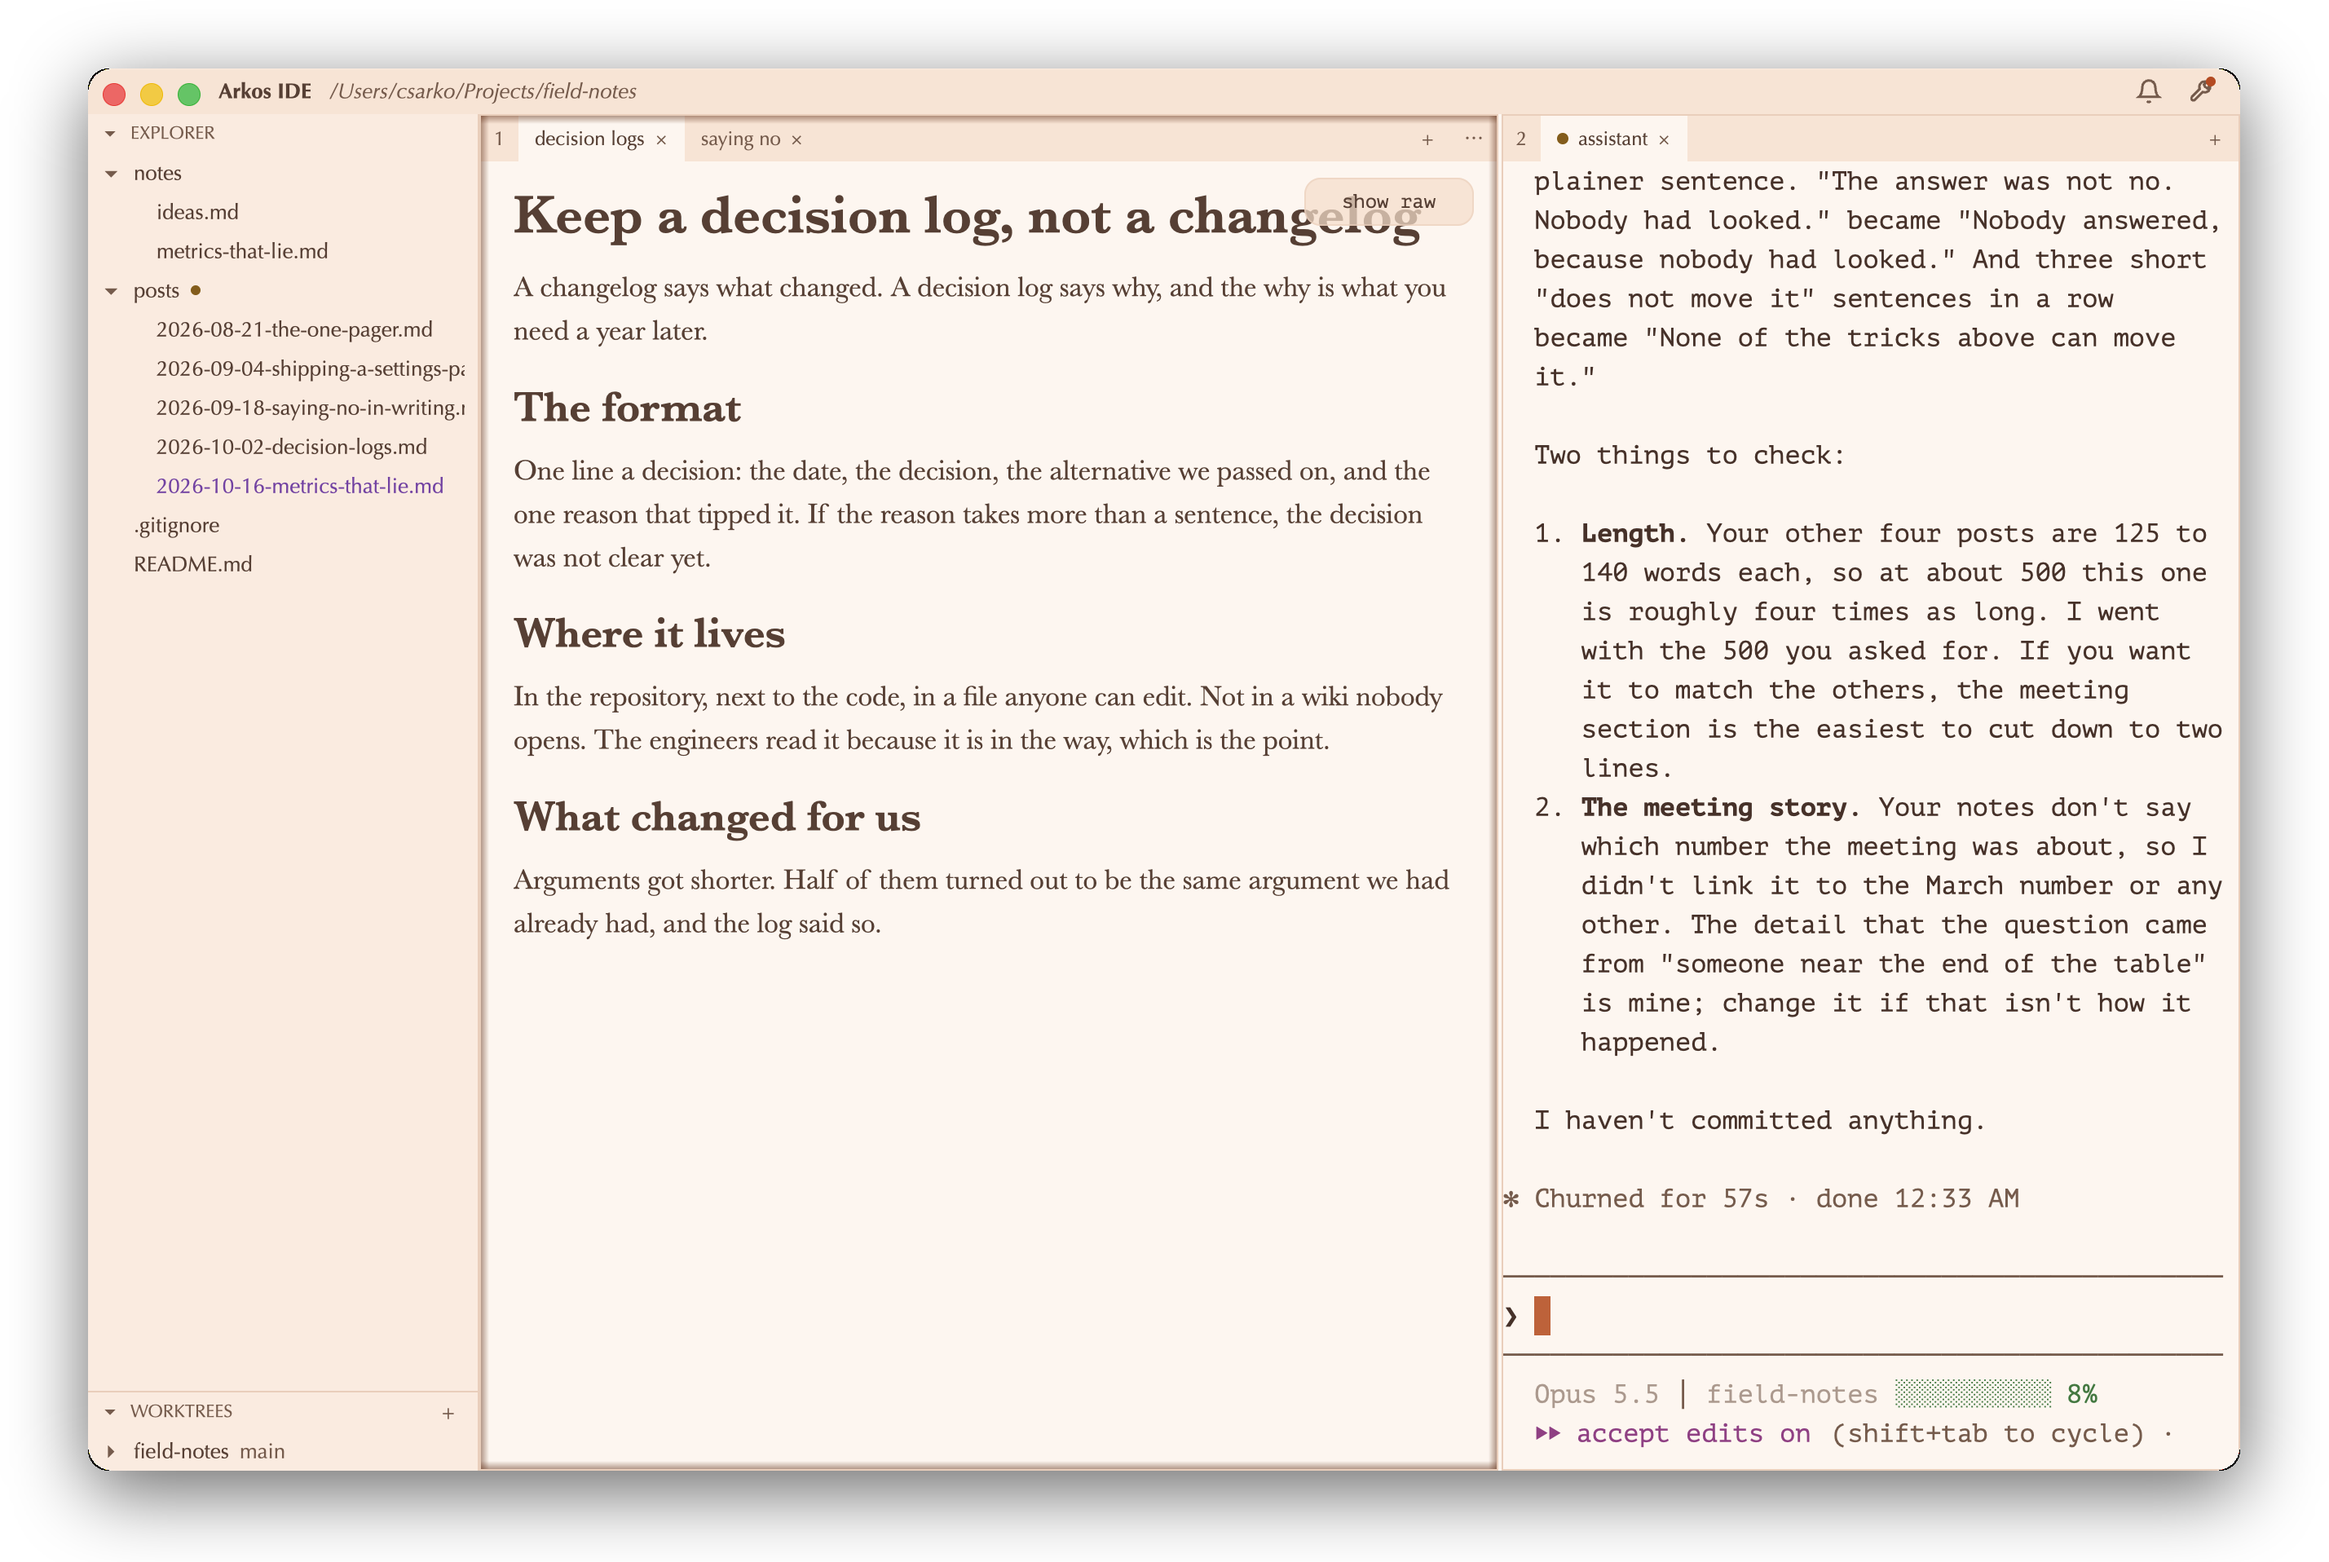
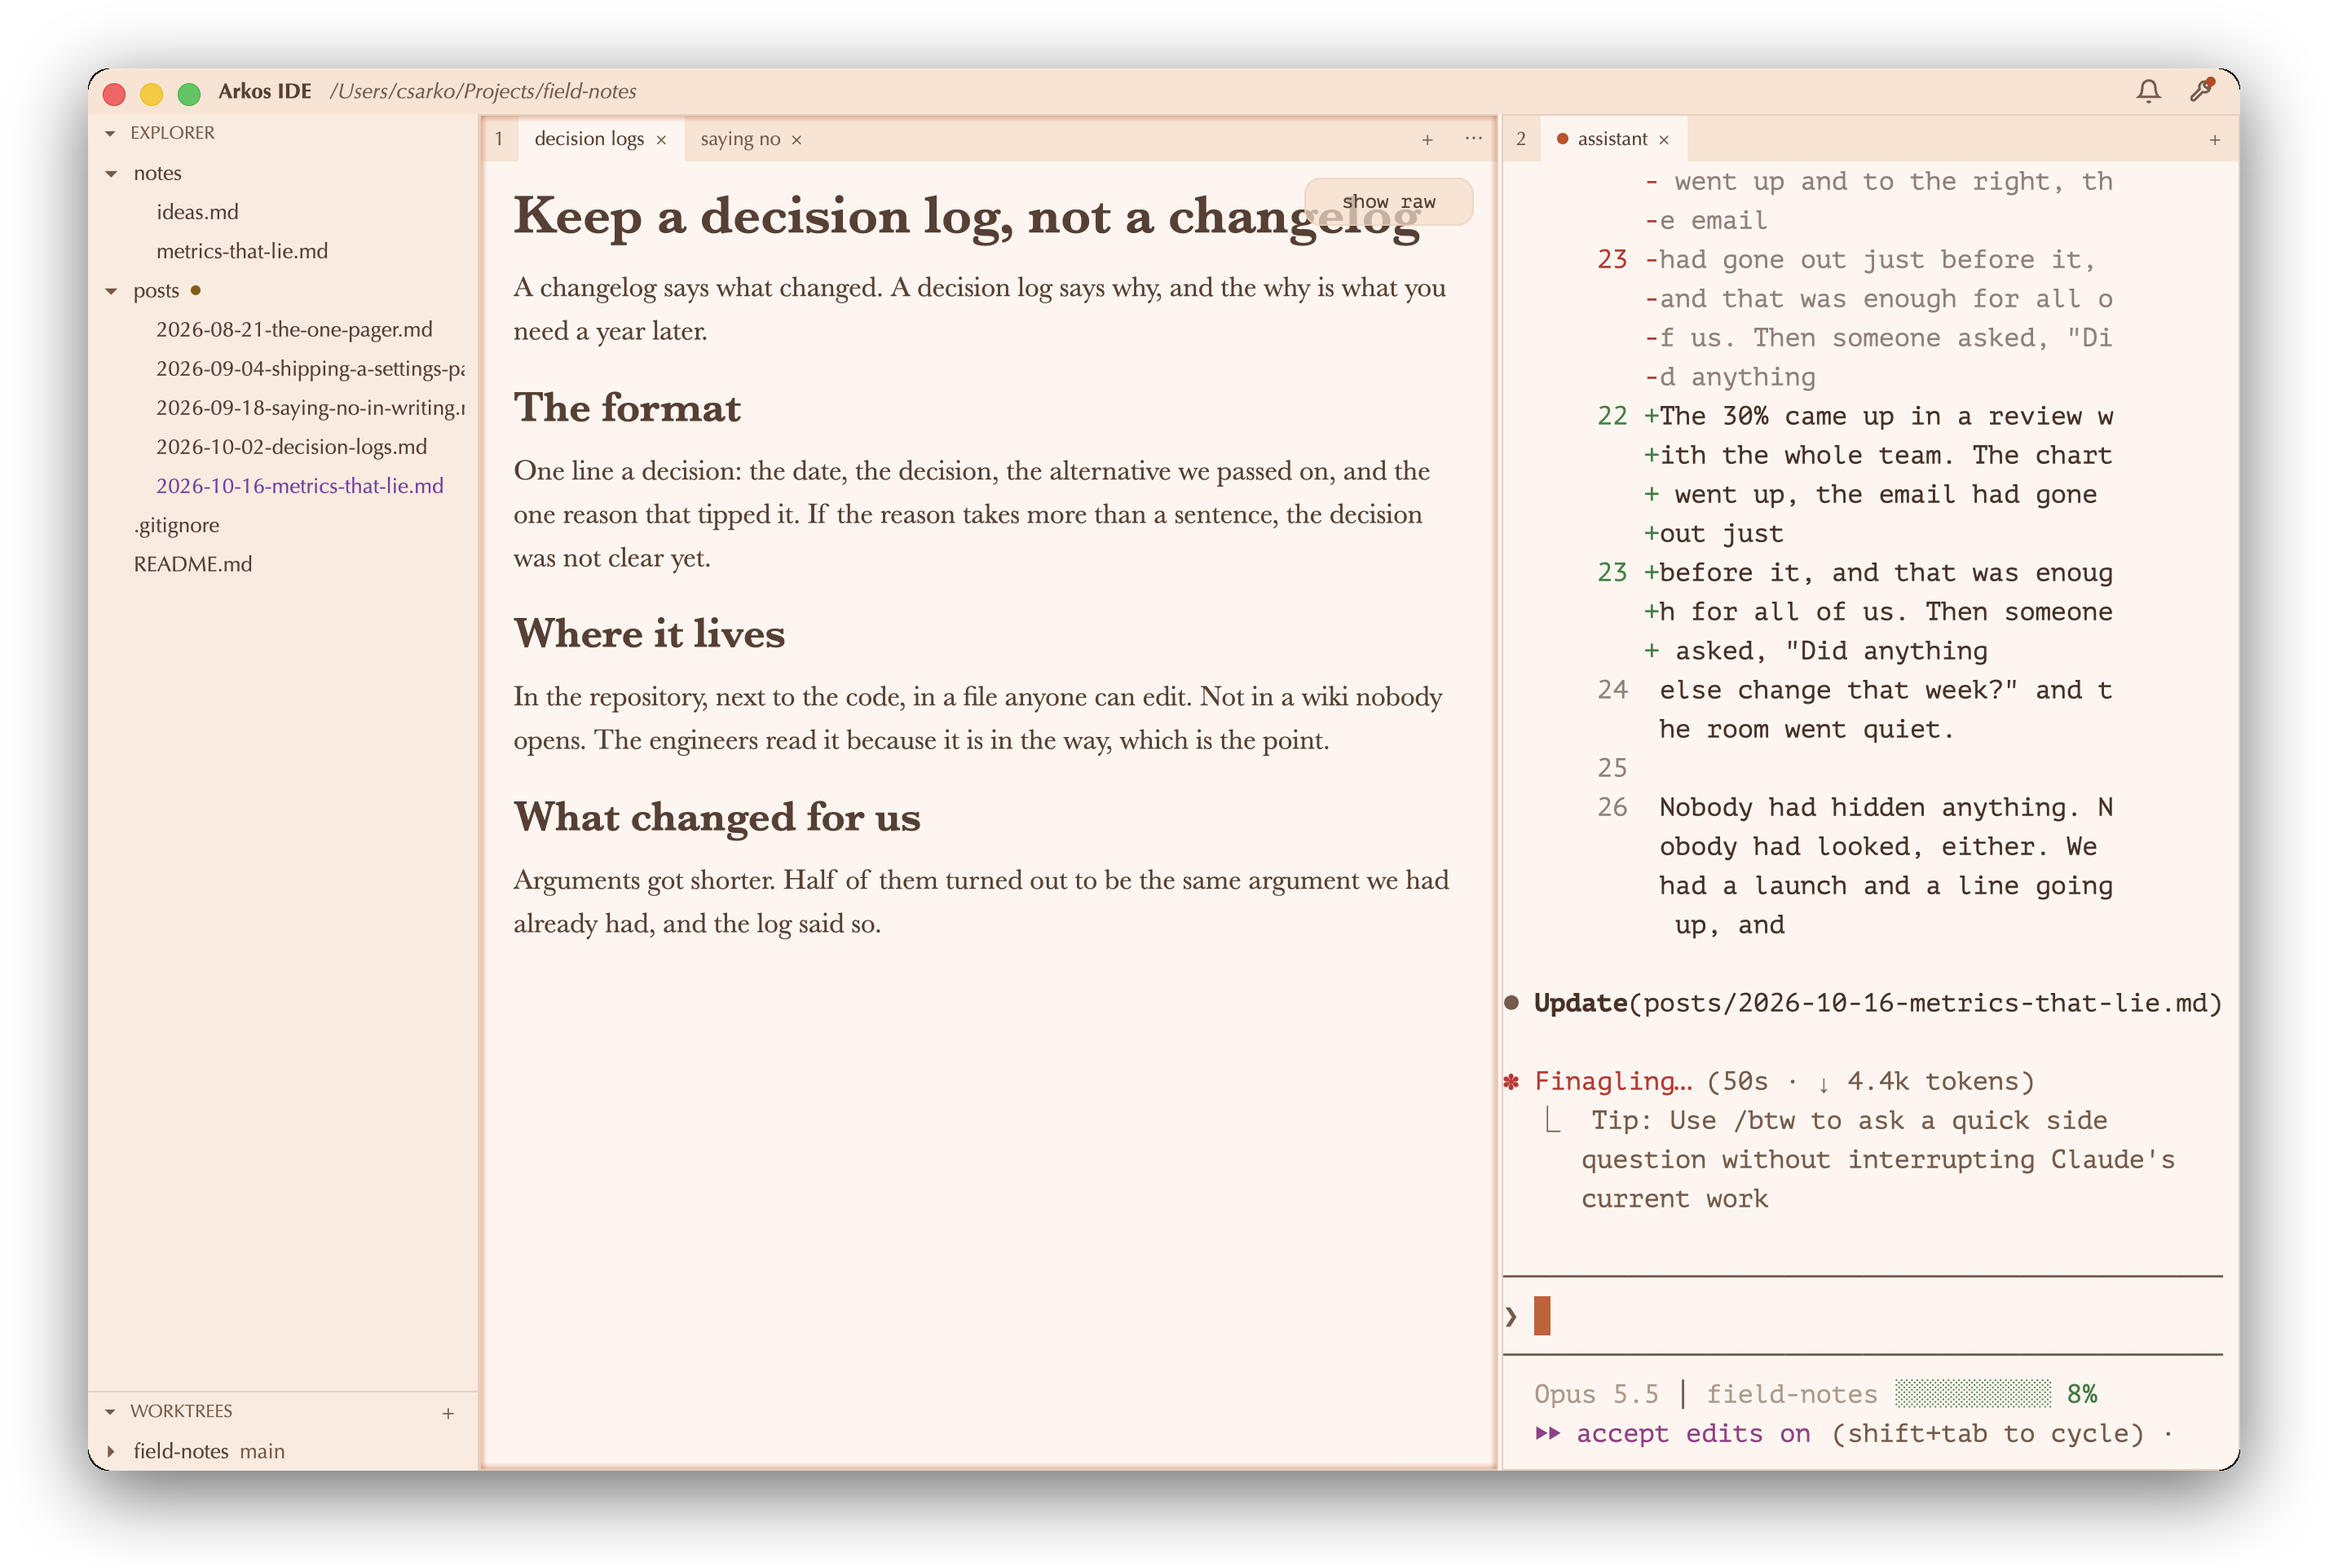
arkos-shoot: Claude Code's message box on the theme's find-match colour
An -ansi Claude Code theme paints the user's message on ANSI bright black
in ANSI white, two dark greys on a light Arkos theme. The shoot writes a
Claude Code theme of its own on that base with the message background set
to the Arkos theme's find-match colour, the surface its tests hold to
4.5:1 under text. The blogger's pictures, with it.

diff --git a/crates/shoot/src/main.rs b/crates/shoot/src/main.rs
@@ -206,7 +206,7 @@ fn shoot(story: &Story, repo: &Path, bin: &Path, app: Option<&Path>, dirs: &Dirs
         Some(d) => PathBuf::from(expand_home(d)),
         None => dirs.cache.join(&story.demo.name),
     };
-    let worktrees = prepare_demo(&repo.join(&story.demo.fixture), &demo, story, &bin.join("arkos"))?;
+    let worktrees = prepare_demo(&repo.join(&story.demo.fixture), &demo, story, &bin.join("arkos"), repo)?;
     let demo = demo.canonicalize()?;
     running.demo = Some(demo.clone());
     say(&format!("demo project at {}", demo.display()));
@@ -699,7 +699,35 @@ fn write_config(path: &Path, story: &Story, theme: &str) -> Result<()> {
 /// name, and Claude Code's project settings: Arkos's hooks aimed at the dev binary (the user's
 /// own, aimed at the installed app, reach the other daemon and do nothing) and the permissions
 /// a session needs to work without asking.
-fn prepare_demo(fixture: &Path, demo: &Path, story: &Story, arkos_exe: &Path) -> Result<BTreeMap<String, PathBuf>> {
+/// Claude Code's theme for the scene. An `-ansi` theme draws with the terminal's sixteen
+/// colours, but paints the user's message on ANSI bright black, which Arkos's themes keep
+/// readable as dim *text*, so as a background it fails the text on it (navy 3:1; on a light
+/// theme the text is ANSI white, another dark grey, under 2:1). For those the shoot writes a
+/// custom Claude Code theme, `~/.claude/themes/arkos-shoot.json`, on that base with the
+/// message background set to the Arkos theme's find-match colour, the one surface its tests
+/// hold to 4.5:1 under text, and names it.
+fn claude_theme_for(story: &Story, repo: &Path) -> Result<String> {
+    let base = story.window.claude_theme.as_str();
+    if !base.ends_with("-ansi") {
+        return Ok(base.to_string());
+    }
+    let arkos_theme = if base.starts_with("light") { &story.window.theme.light } else { &story.window.theme.dark };
+    let file = repo.join("crates/arkos/themes").join(format!("{arkos_theme}.toml"));
+    let text = std::fs::read_to_string(&file).with_context(|| format!("read {} for its selection colour", file.display()))?;
+    let toml: toml::Value = toml::from_str(&text).with_context(|| format!("parse {}", file.display()))?;
+    let selection = toml.get("semantic").and_then(|t| t.get("find_match")).and_then(|v| v.as_str()).with_context(|| format!("{}: no semantic.find_match", file.display()))?;
+    let dir = PathBuf::from(std::env::var("HOME").context("HOME")?).join(".claude/themes");
+    std::fs::create_dir_all(&dir)?;
+    let theme = serde_json::json!({
+        "name": "Arkos shoot",
+        "base": base,
+        "overrides": { "userMessageBackground": selection, "userMessageBackgroundHover": selection }
+    });
+    std::fs::write(dir.join("arkos-shoot.json"), serde_json::to_string_pretty(&theme)?)?;
+    Ok("custom:arkos-shoot".to_string())
+}
+
+fn prepare_demo(fixture: &Path, demo: &Path, story: &Story, arkos_exe: &Path, repo: &Path) -> Result<BTreeMap<String, PathBuf>> {
     if !fixture.is_dir() {
         bail!("fixture {} is not a folder", fixture.display());
     }
@@ -764,7 +792,8 @@ fn prepare_demo(fixture: &Path, demo: &Path, story: &Story, arkos_exe: &Path) ->
     }
     // Claude Code reads .claude/settings.json in the folder it runs in: every pane's folder
     // gets one (the worktree's is its own; a worktree's checkout does not carry the main one's).
-    let settings = claude_settings(arkos_exe, &story.window.claude_theme);
+    let claude_theme = claude_theme_for(story, repo)?;
+    let settings = claude_settings(arkos_exe, &claude_theme);
     let mut dirs: Vec<PathBuf> = story.panes.iter().filter(|p| p.is_terminal()).map(|p| p.dir(demo)).collect();
     dirs.push(demo.to_path_buf());
     dirs.sort();
